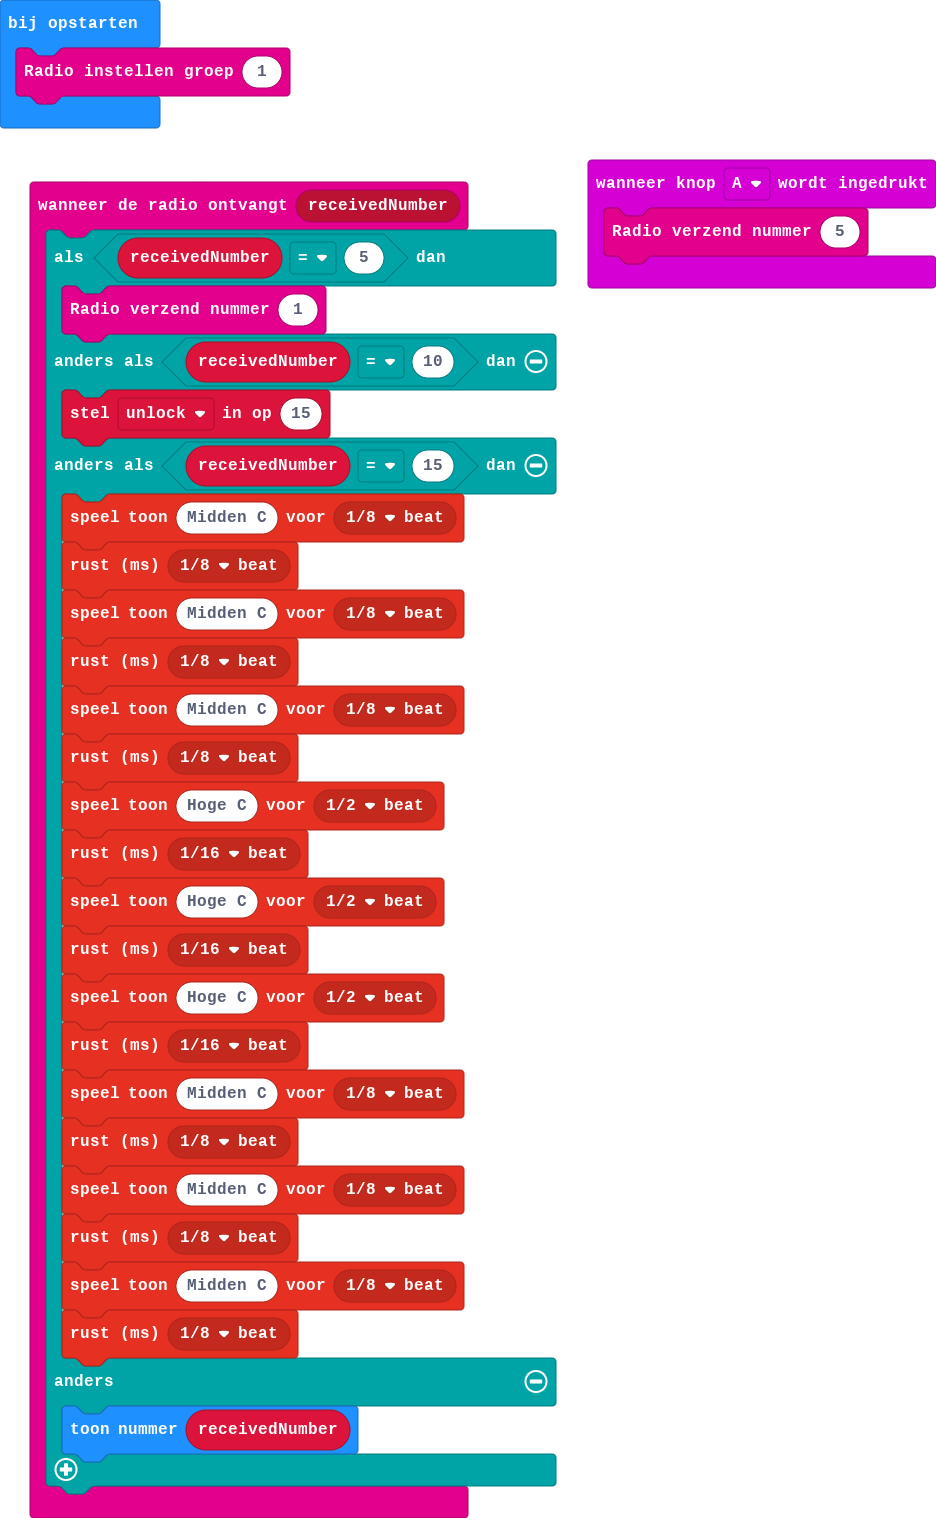
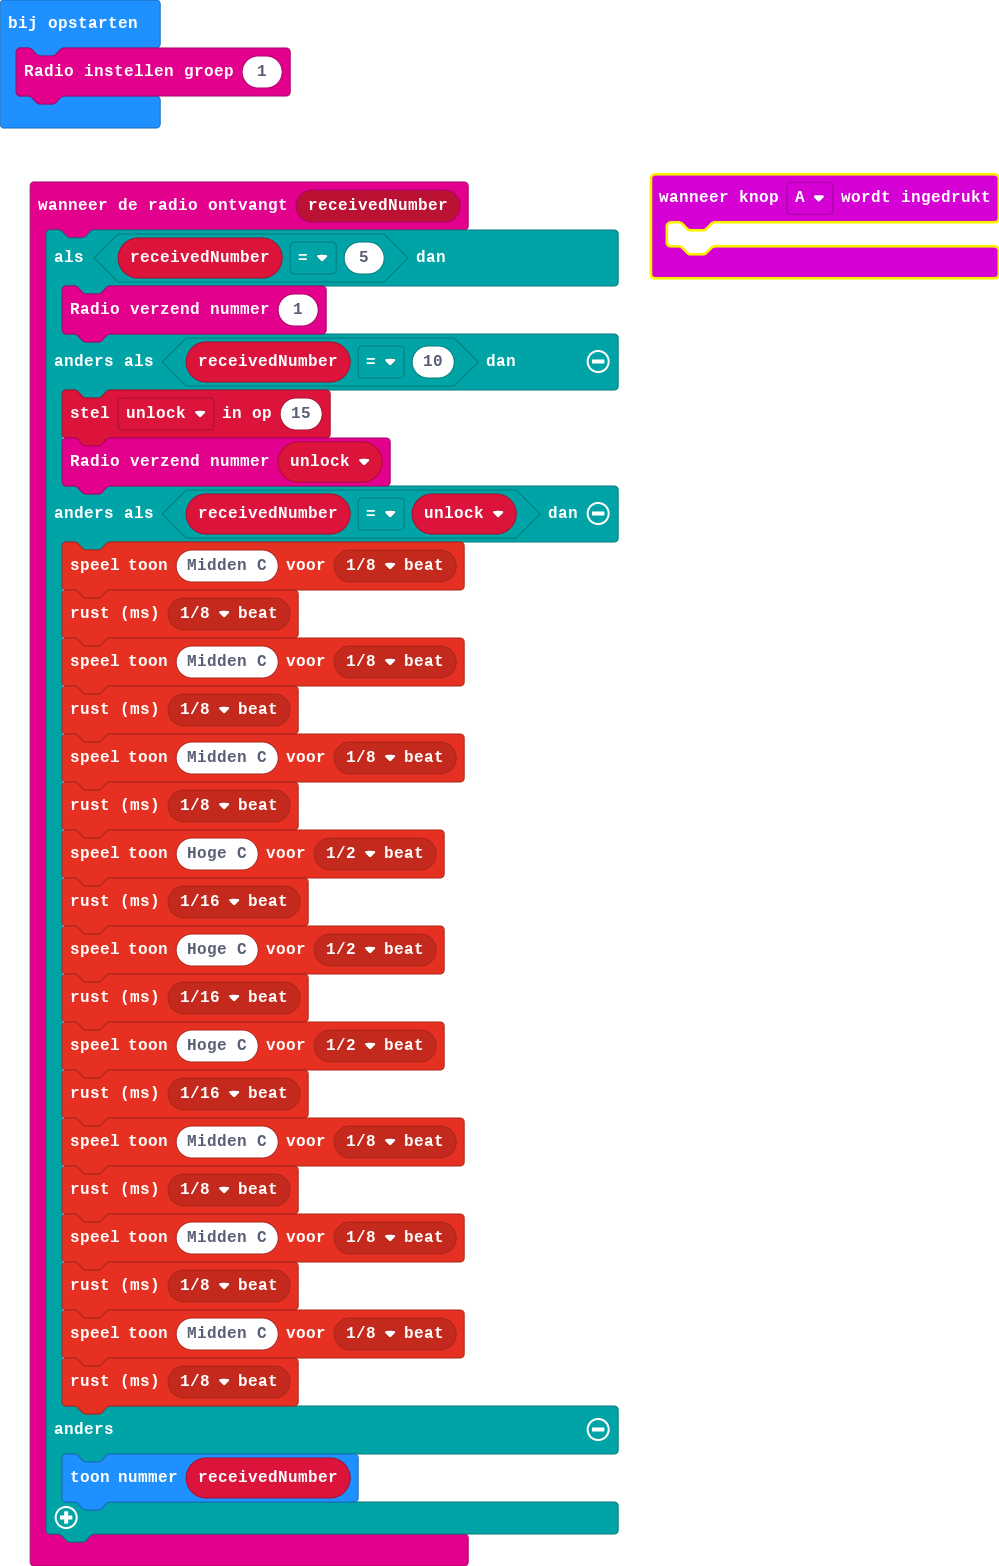
main.blocks, main.ts bijwerken

Changed region(s): [[0.0, 0.0, 1.0, 0.9908], [0.4647, 0.9598, 0.5267, 1.0], [0.5887, 0.9598, 0.6197, 0.9908]]

diff --git a/main.ts b/main.ts
@@ -3,7 +3,8 @@ radio.onReceivedNumber(function (receivedNumber) {
         radio.sendNumber(1)
     } else if (receivedNumber == 10) {
         unlock = 15
-    } else if (receivedNumber == 15) {
+        radio.sendNumber(unlock)
+    } else if (receivedNumber == unlock) {
         music.playTone(262, music.beat(BeatFraction.Eighth))
         music.rest(music.beat(BeatFraction.Eighth))
         music.playTone(262, music.beat(BeatFraction.Eighth))
@@ -27,7 +28,7 @@ radio.onReceivedNumber(function (receivedNumber) {
     }
 })
 input.onButtonPressed(Button.A, function () {
-    radio.sendNumber(5)
+	
 })
 let unlock = 0
 radio.setGroup(1)
